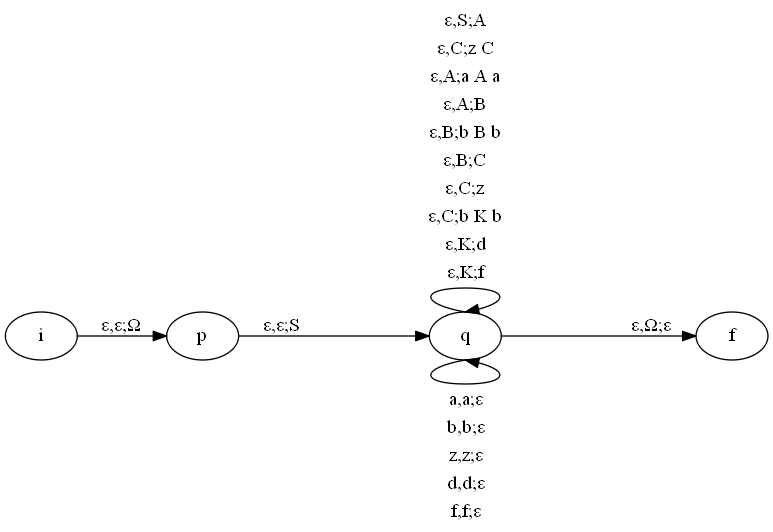
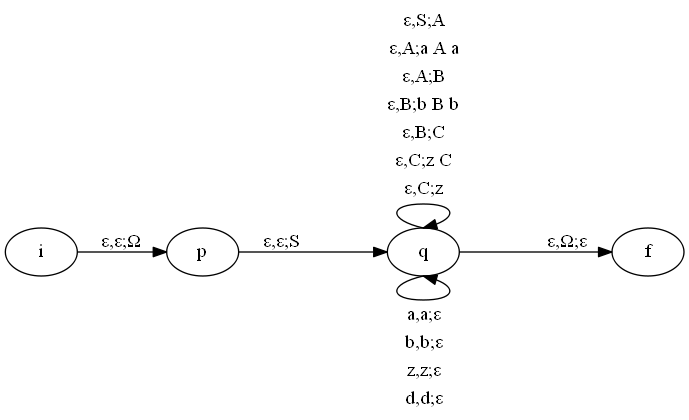
COLAS PILAS

diff --git a/Automata.html b/Automata.html
@@ -15,7 +15,7 @@
         <div class="container">
             <div class="row">
                 <div class="col-md-6">
-  <p class="Titulo">Nombre: Grm1</p> <p class="txt">Terminales={a,b,z,d,f}</p> <p class="txt">Alfabeto de pila={a,b,z,d,f,S,A,B,C,K,Ω}</p> <p class="txt">Estados={i,p,q,f}</p> <p class="txt">Estado inicial={S}</p> <p class="txt">Estado de aceptación={f}</p>
+  <p class="Titulo">Nombre: Grm1</p> <p class="txt">Terminales={a,b,z,d}</p> <p class="txt">Alfabeto de pila={a,b,z,d,S,A,B,C,Ω}</p> <p class="txt">Estados={i,p,q,f}</p> <p class="txt">Estado inicial={S}</p> <p class="txt">Estado de aceptación={f}</p>
                 </div>
                 <div class="col-md-6">
                     <img src="IMG/automata.png" class="img-fluid">

diff --git a/TEST/tColas.py b/TEST/tColas.py
@@ -1,0 +1,182 @@
+
+import threading
+import queue
+from threading import Thread
+
+
+# def stringFunction(value, out_queue):
+#     my_str = "This is string no. " + value
+#     out_queue.put(my_str)
+
+# my_queue = queue.Queue()
+# thread1 = threading.Thread(stringFunction("one", my_queue))
+# thread1.start()
+# thread1.join()
+
+# func_value = my_queue.get()
+# print(func_value)
+
+def funcion():
+    array=[]
+    #array.append(threading.Thread(target=veces,args=('a',0)))
+    #array.append(threading.Thread(target=veces,args=('b',0)))
+    #array.append(threading.Thread(target=veces,args=('c',0)))
+    #array.append(threading.Thread(target=veces,args=('d',0)))
+    #for inicio in array:
+    #    inicio.start()
+
+    #for a in range(2):
+    #    array.append(veces('a'+str(a)))
+
+
+    # hilo1= threading.Thread(target=veces,args=('a',0))
+    # hilo2= threading.Thread(target=veces,args=('b',0))
+    # hilo1.start()
+    # hilo2.start()
+
+
+    #veces('A',20,True,2)
+    #veces('B',20,False,0)
+    que = queue.Queue()
+    array.append(threading.Thread(target=veces,args=(que,'A',20,True,2)))
+    array.append(threading.Thread(target=veces,args=(que,'B',20,False,0)))
+
+    for inicio in array:
+        inicio.start()
+        inicio.join()
+        retorno = que.get()
+        print(str(retorno),'ES EL RETORN')
+        if retorno=='siii':
+            print('YES')
+        
+def veces(salida,letra,a,TF,vv):
+    if TF==True:
+        for num in range(vv):
+            letra=letra+letra
+            a=a*2
+            TF=False
+            veces(salida,letra,a,TF,0)
+    else:
+        for num in range(a):
+            print(letra,str(num))
+            if num==10:
+                salida.put('siii')
+def ori():
+    array=[
+           #0   1   2   3  4 5
+           #ID,    ,iz,de,rep,numero
+            ['ε','S','A',1],
+            ['ε','A','B',1],
+            ['ε','A','a A a',2],
+            ['ε','B','C','NT',1],
+            ['ε','B','b B b',2],
+            ['ε','C','z C',1],
+            ['ε','C','z',2],
+            ['a','a','ε',0],
+            ['b','b','ε',0],
+            ['c','c','ε',0],
+            ['z','z','ε',0]
+        ]
+    return array
+def funcionx2():
+    #txt='02320'
+    txt='abzba'
+    #produc=ver2()
+    produc=ori()
+    A=[]
+    for a in txt:
+        A.append(a)
+
+    #TESTEO DE PRODUCCIONES
+    txtA=['a','b','z','b','a']#TXTARRAY
+    txtAH=[]#TXT AYUDA
+    pila=[]#PILA
+    camino=[ ]#CAMINO
+    produc2=ori()#PROUDCCIONES MODIFICADAS
+            #analizador,arrayTxt,pila,camino,produccion,repetir,posicion 
+               #(S    ,02320   ,[]  ,()    ,[]         ,S      ,100)
+    #try:
+    analizador('S'    ,1,A      ,['#']   ,[]    ,produc     ,False    ,0)#INICIO
+    #except:
+    #print("DEMASIADAS ITERACIONES")
+
+def analizador(search,ID,arrayTxt,pila,camino,producciones,repite,posicion):
+    
+    txt=''
+    n=posicion
+
+    if n<len(producciones):
+
+        derecha=producciones[n][2].split(' ')
+        if search==producciones[n][1] and ID==producciones[n][-1]:
+            print('PRODUC',search,ID,arrayTxt,pila,camino,repite,posicion)
+            for num in range(len(producciones)):
+                if num%2!=0:
+                    txt=txt+str(producciones[num][-1])+':'+str(producciones[num][1])+'->'+str(producciones[num][2])+'=:= '
+                else:
+                    txt=txt+str(producciones[num][-1])+':'+str(producciones[num][1])+'->'+str(producciones[num][2])+'=:= '
+                    print(txt)
+                    txt=''
+            
+            if producciones[n][2]=='ε':
+                if len(pila)==0:
+                    print('ES==ε, pila vacia')
+                else:
+                    if len(arrayTxt)!=0:
+                        if pila[0]==arrayTxt[0]:                 
+                            pila.pop(0)
+                            arrayTxt.pop(0)
+                            if len(pila)==0:
+                                if len(arrayTxt)==0:
+                                    print('ES==ε; pila llena,txt lleno; txt=pila; pila vacia, txt vacio')
+                                    return 'S'
+                                    #print(search,arrayTxt,pila,ayudarTxt,camino,repite,posicion)
+
+                                else:
+                                    print('ES==ε; pila llena,txt lleno; txt=pila; pila vacia, txt lleno')
+                                    return 'F'
+                                    #analizador('#',arrayTxt,pila,ayudarTxt,camino,producciones,True,len(producciones)-2)
+                            else:
+
+                                if len(arrayTxt)==0:
+                                    print('ES==ε; pila llena,txt lleno; txt=pila; pila llena, txt vacio')
+                                    return 'F'      
+                                else:
+                                    print('ES==ε; pila llena,txt lleno; txt=pila; pila llena, txt lleno')
+                                    return 'HIJOLES'
+                                    #analizador(pila[0],arrayTxt,pila,ayudarTxt,camino,producciones,repite,0)
+                        else:
+                            print('ES==ε; pila llena,txt lleno; txt!=pila')
+                            return 'F'
+                    else:
+                        print('ES==ε; pila llena,txt vacio; txt!=pila')
+                        return 'F'
+
+            else:
+                print('ES!=ε')
+                pila.pop(0)
+                for num in reversed(range(len(derecha))):
+                    pila.insert(0,derecha[num])
+                camino.append(producciones[n][1]+' '+str(producciones[n][-1]))
+                buscarID=[]
+                cola=[]
+                que = queue.Queue()
+                for i in range(len(producciones)):
+                    if producciones[i][1]==pila[0]:
+                        buscarID.append(producciones[i][-1])
+                        
+                for i in buscarID:
+                    cola.append(threading.Thread(target=analizador,args=(pila[0],i,arrayTxt,pila,camino,producciones,repite,0)))
+                    print('RAMAS:',pila[0],i,arrayTxt,pila,camino,repite,0)
+
+                for i in cola:
+                    i.start()
+                    i.join()
+        else:
+            #print('NEXT->')
+            analizador(search,ID,arrayTxt,pila,camino,producciones,repite,n+1)
+            #print(search,arrayTxt,pila,ayudarTxt,camino,producciones,repite)
+    else:
+        print('FIN',search,ID,arrayTxt,pila,camino,repite,posicion)
+
+funcionx2()

diff --git a/ordenarP.py b/ordenarP.py
@@ -26,30 +26,30 @@ def ordenar(producciones,Nt,T):
                         #nT=len(Nt)+1
                     #DONDE 1=TErminal;-1?No terminal     
                                #S                    ,a W a              ,0|1    ,posicion
-                ter_Nter=''
-                derecha=producciones[nD][1].split(' ')
+                #ter_Nter=''
+                #derecha=producciones[nD][1].split(' ')
 
                 
-                for b in range(len(derecha)):#PARA OBTENER EL a A a-> T NT T
-                    for a in range(mayor):
-                        if len(Nt)>a:#IF NO LLEGA AL LIMITE DEL NUMERO
-                            if Nt[a]==derecha[b]:#PARA NO AGREGAR; FINAL
-                                if len(derecha)-1>b:
-                                    ter_Nter=ter_Nter+'NT'+';'
-                                else:
-                                    ter_Nter=ter_Nter+'NT' 
-                                break
-                        if len(T)>a:#IF NO LLEGA AL LIMITE DEL NUMEOR
-                            if T[a]==derecha[b]:
-                                if len(derecha)-1>b:#PARA NO AGREGAR; FINAL
-                                    ter_Nter=ter_Nter+'T'+';'
-                                else:
-                                    ter_Nter=ter_Nter+'T'
-                                break
+                # for b in range(len(derecha)):#PARA OBTENER EL a A a-> T NT T
+                #     for a in range(mayor):
+                #         if len(Nt)>a:#IF NO LLEGA AL LIMITE DEL NUMERO
+                #             if Nt[a]==derecha[b]:#PARA NO AGREGAR; FINAL
+                #                 if len(derecha)-1>b:
+                #                     ter_Nter=ter_Nter+'NT'+';'
+                #                 else:
+                #                     ter_Nter=ter_Nter+'NT' 
+                #                 break
+                #         if len(T)>a:#IF NO LLEGA AL LIMITE DEL NUMEOR
+                #             if T[a]==derecha[b]:
+                #                 if len(derecha)-1>b:#PARA NO AGREGAR; FINAL
+                #                     ter_Nter=ter_Nter+'T'+';'
+                #                 else:
+                #                     ter_Nter=ter_Nter+'T'
+                #                 break
                               
                 #print(producciones[nD][1],ter_Nter)
                                 #S                   ,a A a              ,veces, posicion, T NT T
-                produTemp.append([producciones[nD][0],producciones[nD][1],numero,posicion,ter_Nter])
+                produTemp.append([producciones[nD][0],producciones[nD][1],numero,posicion])
                 posicion+=1
         #ORDNAR DE TERMINALES>NO TERMINALES
         array_uno=[]#AYUDA1
@@ -68,6 +68,6 @@ def ordenar(producciones,Nt,T):
         for a in produTemp:#A,a A a,vesces que se repite
             if produTemp!=None:
                                     #A   ,a A a,T NT T,Tamaño     , posicion
-                array_salida.append([a[0],a[1],a[4],len(produTemp),a[3]])
-
+                #array_salida.append([a[0],a[1],a[4],len(produTemp),a[3]])
+                array_salida.append([a[0]+':'+str(a[3]),a[1]])
     print(array_salida)

diff --git a/TEST/LECTORA.py b/TEST/LECTORA.py
@@ -18,22 +18,6 @@ def ver2():
             
         ]
     return array
-def ori():
-    array=[
-            [1,'ε','S','A','NT'],
-            [2,'ε','A','B','NT'],
-            [3,'ε','A','a A a','T;NT;T'],
-            [4,'ε','B','C','NT'],
-            [5,'ε','B','b B b','T;NT;T'],
-            [6,'ε','C','z C','T'],
-            [7,'ε','C','z','T;NT'],
-            [9,'a','a','ε','T'],
-            [10,'b','b','ε','T'],
-            [11,'c','c','ε','T'],
-            [12,'z','z','ε','T']
-        ]
-    return array
-
 def ver2M():
     array=[
             #DE   IZ  T|NT ID POS LIMITE
@@ -56,9 +40,9 @@ def ver2M():
     return array
 def funcion():
     #txt='02320'
-    txt='abzba'
+    txt='02320'
     #produc=ver2()
-    produc=ori()
+    produc=ver2()
     A=[]
     for a in txt:
         A.append(a)
@@ -72,14 +56,16 @@ def funcion():
     
             #buscar,arrayTxt,pila,ayudaTxt,camino,produccion,repetir,posicion 
            #(S    ,02320   ,[]  ,{}      ,()    ,[]         ,S      ,100)
-    
-    buscar('S'    ,A      ,['#']   ,[]      ,[]    ,produc     ,False    ,0)#INICIO
+    try:
+        buscar('S'    ,A      ,['#']   ,[]      ,[]    ,produc     ,False    ,0)#INICIO
+    except:
+        print("DEMASIADAS ITERACIONES")
     #buscar('S'    ,txtA      ,pila   ,txtAH      ,camino    ,produc2     ,'N'    ,9)
-
 def buscar(search,arrayTxt,pila,ayudarTxt,camino,producciones,repite,posicion):
     
     txt=''
     n=posicion
+
     if n<len(producciones):
 
         derecha=producciones[n][3].split(' ')
@@ -177,7 +163,6 @@ def buscar(search,arrayTxt,pila,ayudarTxt,camino,producciones,repite,posicion):
                         pId=len(producciones)+2
                         buscar('S',arrayTxt,['#'],[],camino,producciones,False,0)
                         break
-
 def test():
     a=[1,2,3,4]
     Kk=[]

diff --git a/transacciones.py b/transacciones.py
@@ -7,7 +7,8 @@ def transacciones(T,array,NTI):
     for term in T:
         arrayAB.append([['q',term,term],['q','ε']])
     tabla=[]
-    
+    id=1
     for array in arrayAB:
-        tabla.append([array[0][1],array[0][2],array[1][1]])
+        tabla.append([array[0][1],array[0][2],array[1][1],id])
+        id+=1
     return tabla
